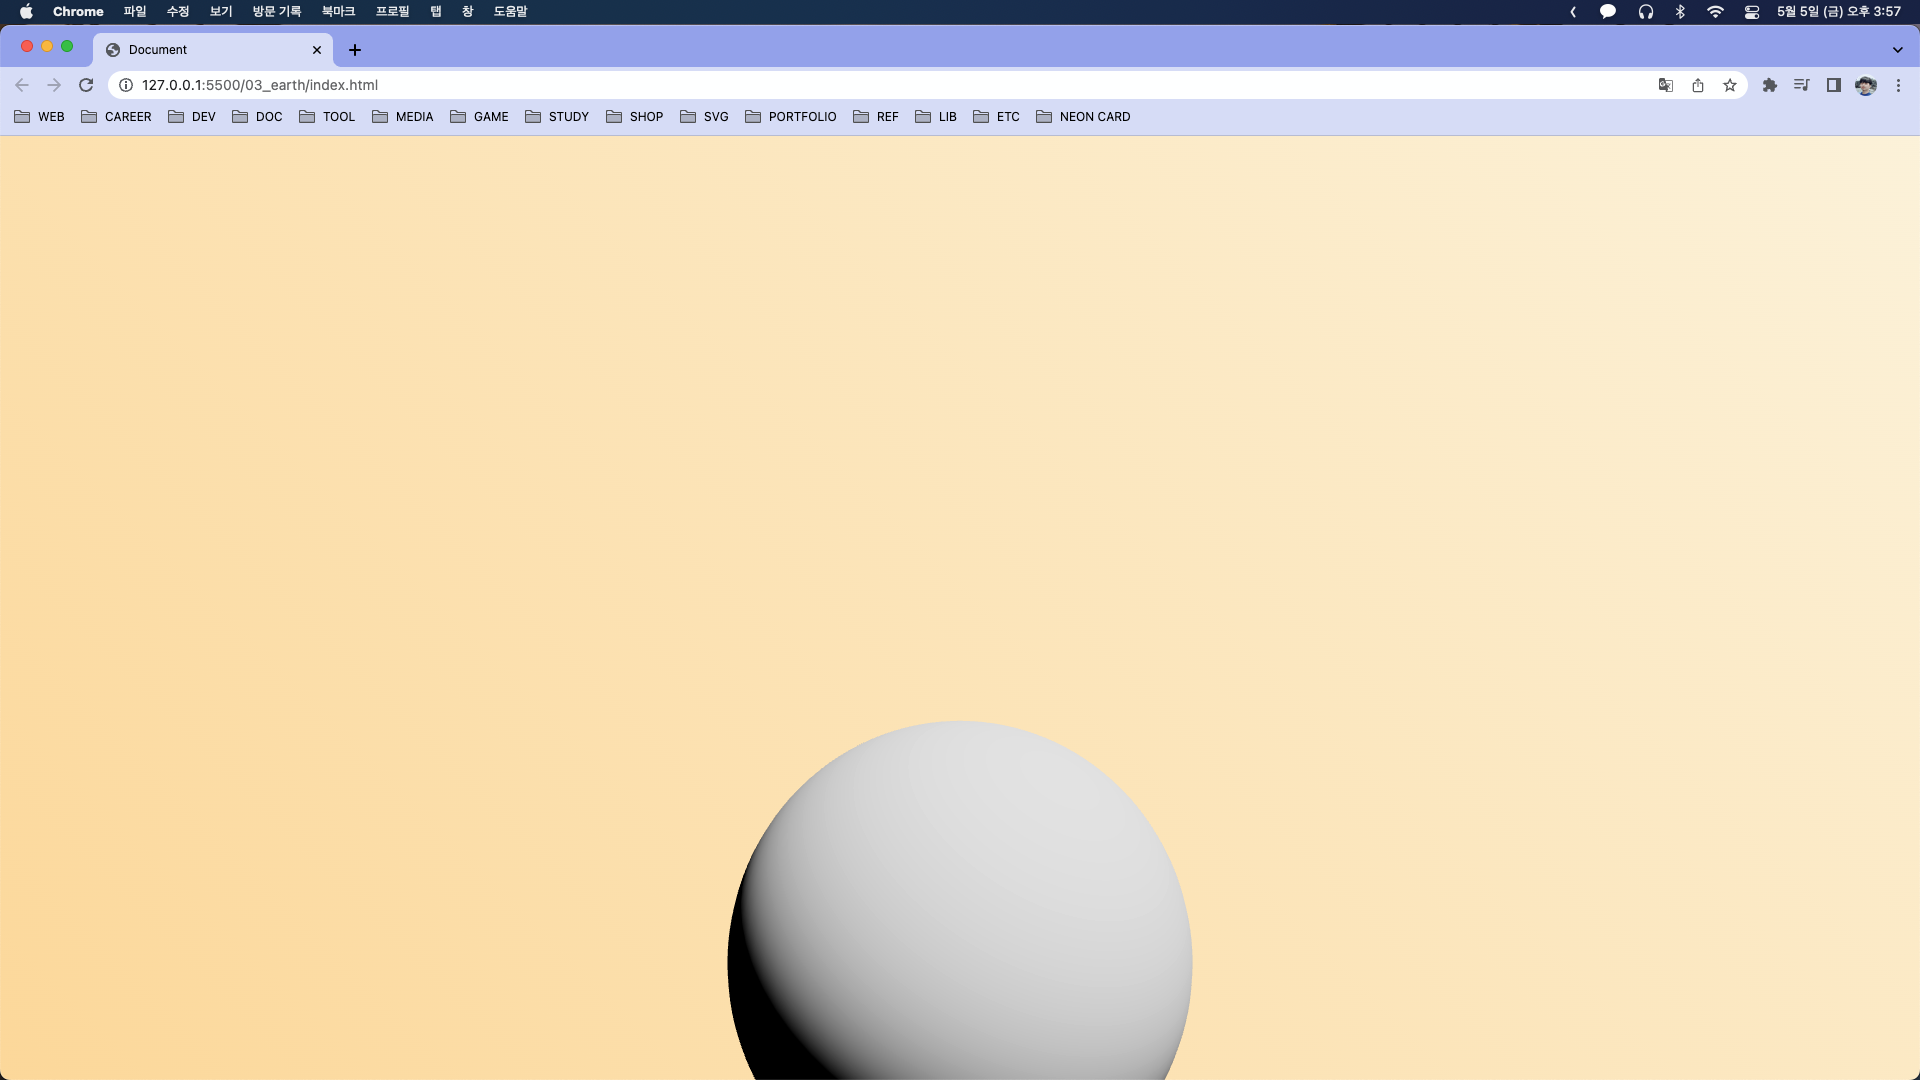
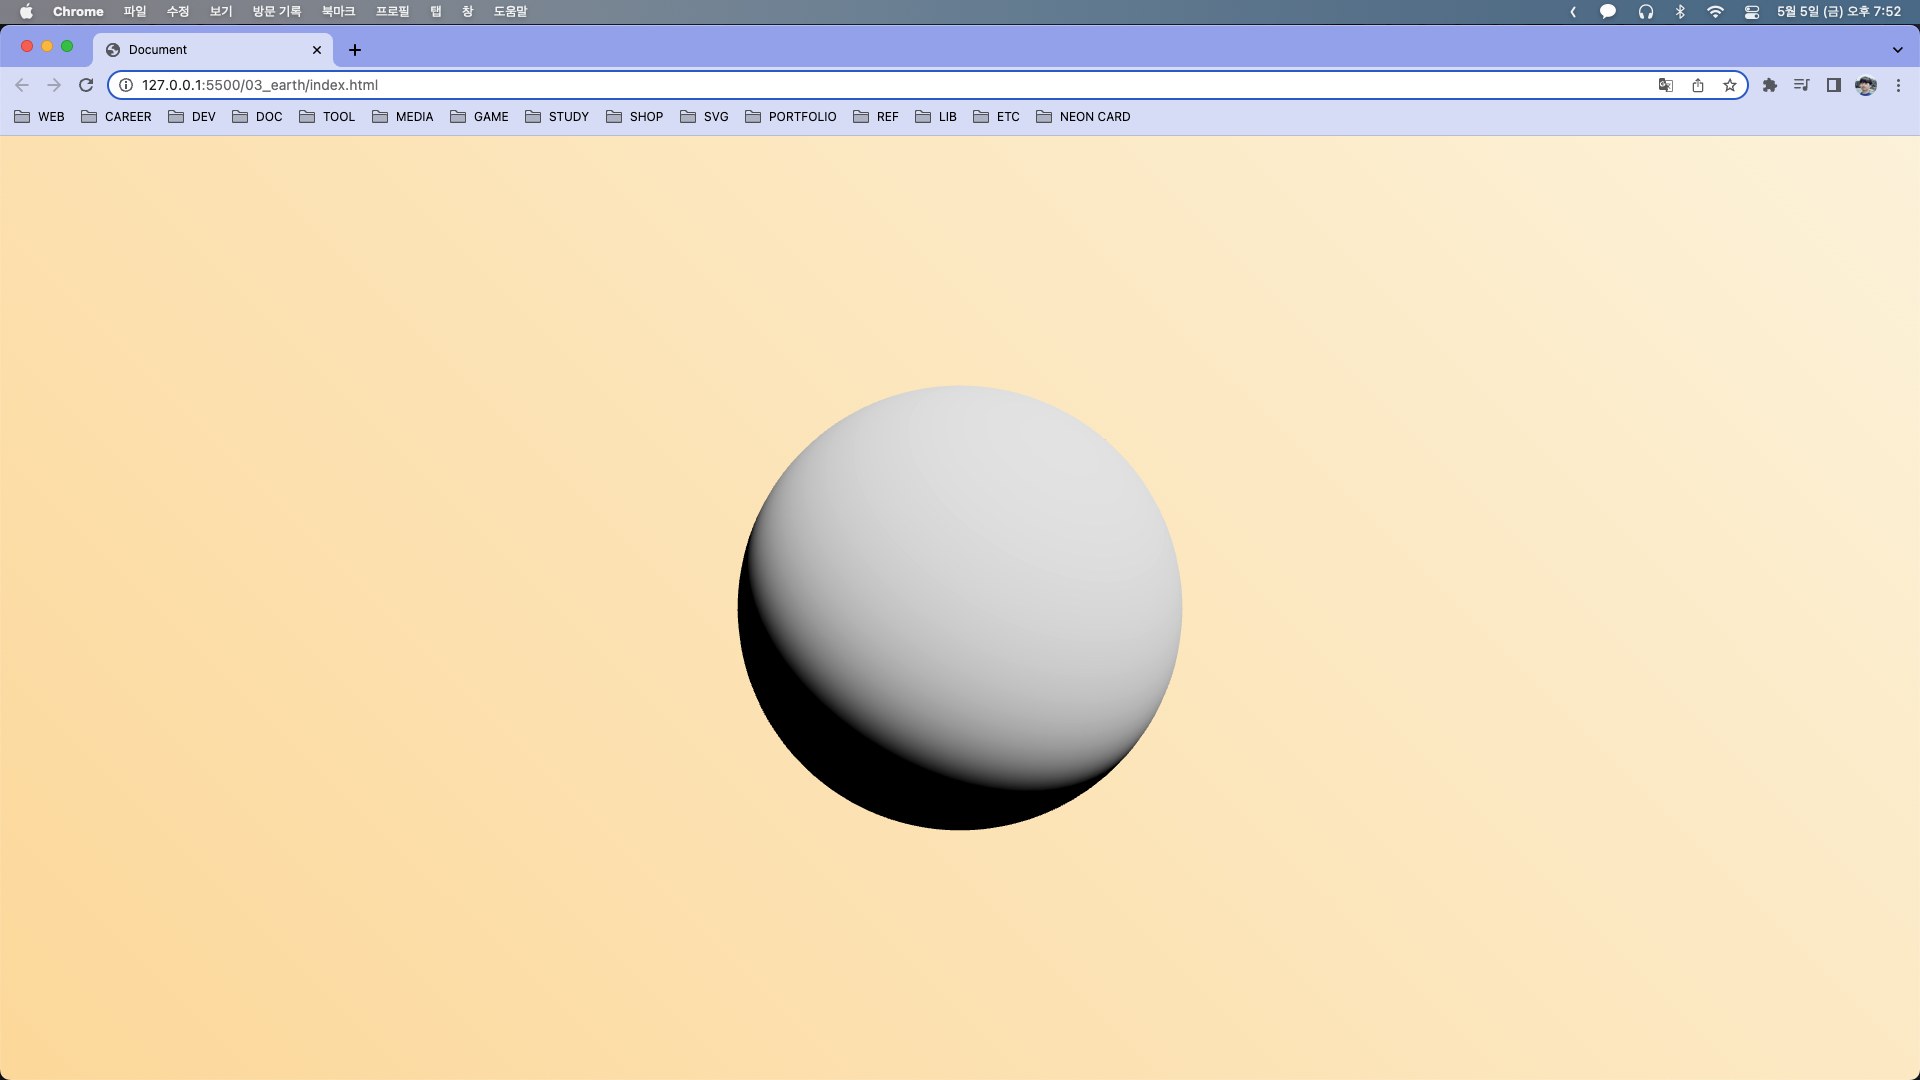
earth part 1

Changed region(s): [[0.375, 0.3361, 0.625, 1.0], [0.0, 0.0, 1.0, 0.0306]]

diff --git a/three.js/03_earth.md b/three.js/03_earth.md
@@ -13,6 +13,58 @@ html에 밝은 배경과 어두운 배경을 만들고 어두운 배경은 opaci
 
 기본 Three.js Scene을 설정하되 Renderer에 `alpha: true`옵션을 추가해 뒷배경이 보이도록 설정해준다.
 
-구를 하나 추가해준다. 다음과 같은 것을 볼 수 있다.
+구를 하나 추가해주고 OrbitsControl을 추가해준다. 다음과 같은 것을 볼 수 있다.
 
 ![result](./img/03/01.png)
+
+https://github.com/Domenicobrz/Threejs-in-practice/tree/main/three-in-practice-3/assets 의 에셋들을 다운받은 뒤, 구에 텍스처를 추가한다.
+
+```js
+let textures = {
+  bump: await new TextureLoader().loadAsync("assets/earthbump.jpg"),
+  map: await new TextureLoader().loadAsync("assets/earthmap.jpg"),
+  spec: await new TextureLoader().loadAsync("assets/earthspec.jpg"),
+};
+
+let sphere = new Mesh(
+  new SphereGeometry(10, 70, 70),
+  new MeshPhysicalMaterial({
+    map: textures.map,
+    roughnessMap: textures.spec,
+    bumpMap: textures.bump,
+    bumpScale: 0.05,
+    sheen: 1,
+    sheenRoughness: 0.75,
+    sheenColor: new Color("#ff8a00").convertSRGBToLinear(),
+    clearcoat: 0.5,
+  })
+);
+```
+
+구에 지구 텍스처가 입혀졌다.
+
+![result](./img/03/02.png)
+
+하지만 뒷편으로 돌리면 검은색만 나오기 때문에 environment map을 추가해줘야 한다.
+
+```js
+let pmrem = new PMREMGenerator(renderer);
+let envmapTexture = await new RGBELoader()
+  .setDataType(FloatType)
+  .loadAsync("assets/old_room_2k.hdr");
+let envMap = pmrem.fromEquirectangular(envmapTexture).texture;
+
+let sphere = new Mesh(
+  new SphereGeometry(10, 70, 70),
+  new MeshPhysicalMaterial({
+    ...,
+    envMap,
+    envMapIntensity: 0.4,
+  })
+);
+sphere.rotation.y += Math.PI * 1.25;
+```
+
+envmap이 추가되어 검은 부분도 자연스러워지는 것을 볼 수 있다.
+
+![result](./img/03/03.png)
